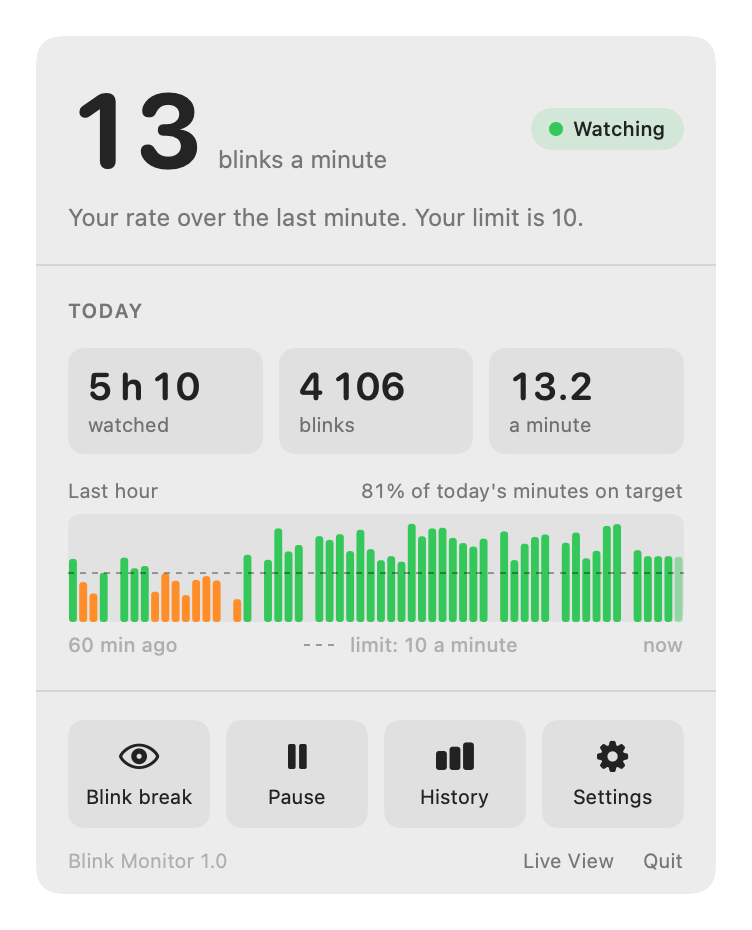
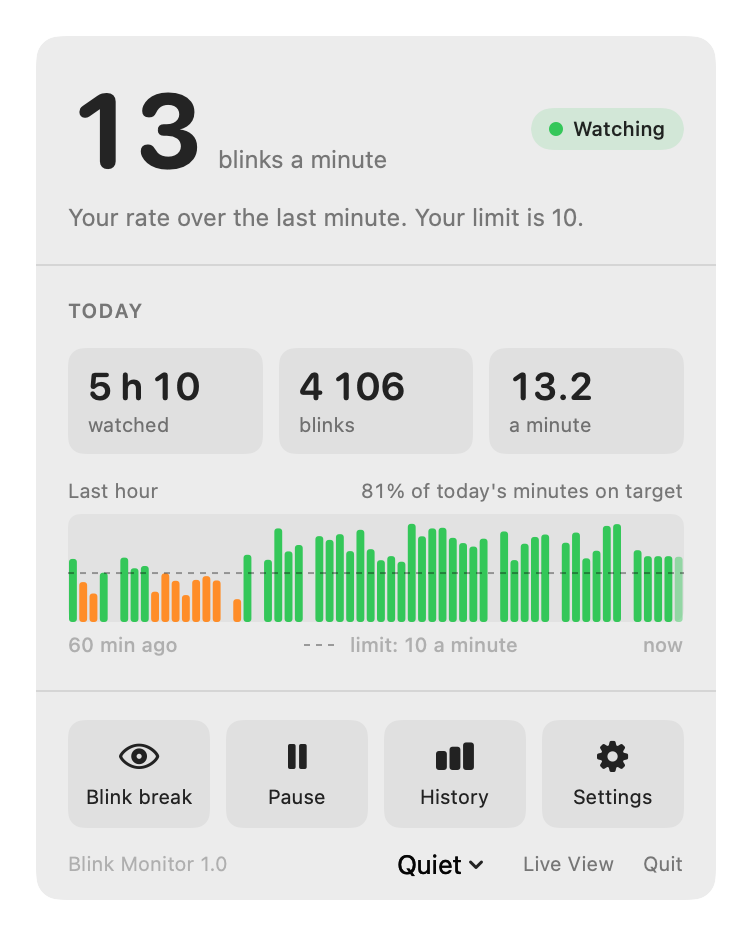
No window taller than the screen, and the notifications-off notice where reminders are set
One rule, ScrollsWhenTall: the part of a window that can grow stops at the
room the screen has and scrolls. Settings keeps its tab bar in place, the
panel keeps its buttons, History scrolls whole. On a screen with room,
nothing changes. Settings > Routines was about 890 points tall and a
13-inch MacBook Air shows about 840.
Notifications refused: the notice is now at the top of the Blink Rate,
Breaks and Routines tabs, with an Open Notification Settings button, and in
the panel. It is read again each time Settings opens and each time the app
comes forward. Settings says that a banner's buttons show under the pointer.

diff --git a/Sources/BlinkMonitor/MenuBar/SettingsView.swift b/Sources/BlinkMonitor/MenuBar/SettingsView.swift
@@ -1,6 +1,7 @@
 import SwiftUI
 import AppKit
 import BlinkCore
+import BlinkUI
 
 /// What the Settings window's buttons do outside of it.
 struct SettingsActions {
@@ -10,6 +11,8 @@ struct SettingsActions {
     var openSetup: (SetupModel.Purpose) -> Void = { _ in }
     /// Closes the setup window: what it shows is about to be deleted.
     var closeSetup: () -> Void = {}
+    /// System Settings, on the page of this app's notifications.
+    var openNotificationSettings: () -> Void = {}
 }
 
 /// Where the files that setup makes are kept.
@@ -111,20 +114,57 @@ struct SettingsView: View {
             }
             .pickerStyle(.segmented)
             .labelsHidden()
+            .padding(.horizontal, 20)
 
-            switch state.tab {
-            case .general: general
-            case .reminders: remindersTab
-            case .breaks: BreaksTab(model: model, preferences: preferences, reminders: reminders, moment: moment,
-                                    startBlinkBreak: actions.startBlinkBreak)
-            case .routines: RoutineSettings(routines: model.routines, moment: moment)
-            case .model: modelTab
-            case .data: data
-            case .sources: sources
+            // The tab bar stays put; a tab taller than the screen scrolls under it.
+            // 110: the title bar, the tab bar and the paddings around them.
+            ScrollsWhenTall(reserved: 110) {
+                VStack(alignment: .leading, spacing: 12) {
+                    if remindsOnThisTab, reminders.notificationsRefused { notificationsOff }
+                    switch state.tab {
+                    case .general: general
+                    case .reminders: remindersTab
+                    case .breaks: BreaksTab(model: model, preferences: preferences, reminders: reminders, moment: moment,
+                                            startBlinkBreak: actions.startBlinkBreak)
+                    case .routines: RoutineSettings(routines: model.routines, moment: moment)
+                    case .model: modelTab
+                    case .data: data
+                    case .sources: sources
+                    }
+                }
+                .padding(.horizontal, 20)
+                .padding(.bottom, 20)
             }
         }
-        .padding(20)
+        .padding(.top, 20)
         .frame(width: 520, alignment: .top)
+    }
+
+    /// The three tabs whose reminders arrive as notifications.
+    private var remindsOnThisTab: Bool {
+        state.tab == .reminders || state.tab == .breaks || state.tab == .routines
+    }
+
+    /// Said at the top of each of those tabs, with the way out. It was said on one tab
+    /// only, at the bottom, and only when a switch of that tab was on.
+    private var notificationsOff: some View {
+        HStack(alignment: .top, spacing: 10) {
+            Image(systemName: "bell.slash")
+                .foregroundStyle(.orange)
+                .frame(width: 20)
+            VStack(alignment: .leading, spacing: 6) {
+                Text("Notifications are off for Blink Monitor")
+                    .fontWeight(.semibold)
+                Text("Reminders cannot show their banner or their buttons. The blink reminder and the breaks play a sound instead; routines only show in the menu bar and the panel. Allow them in System Settings > Notifications > Blink Monitor. There, the style Alerts keeps a banner on screen until you answer it.")
+                    .font(.callout)
+                    .foregroundStyle(.secondary)
+                    .fixedSize(horizontal: false, vertical: true)
+                Button("Open Notification Settings") { actions.openNotificationSettings() }
+            }
+        }
+        .padding(12)
+        .frame(maxWidth: .infinity, alignment: .leading)
+        .background(Color.orange.opacity(0.1), in: RoundedRectangle(cornerRadius: 10))
     }
 
     // MARK: General
@@ -198,12 +238,10 @@ struct SettingsView: View {
                 }
             }
             studiesCard
-            if reminders.notificationsRefused && (preferences.remindersOn || preferences.breakNudgesOn) {
-                Label("Notifications are off for Blink Monitor in System Settings. A sound plays instead.",
-                      systemImage: "bell.slash")
-                    .font(.callout)
-                    .foregroundStyle(.secondary)
-            }
+            Text("A reminder is a banner at the top right of the screen. It leaves after a few seconds and then waits in Notification Centre. Its buttons show when the pointer is over it.")
+                .font(.callout)
+                .foregroundStyle(.secondary)
+                .fixedSize(horizontal: false, vertical: true)
         }
     }
 

diff --git a/Sources/BlinkUI/ScrollsWhenTall.swift b/Sources/BlinkUI/ScrollsWhenTall.swift
@@ -1,0 +1,69 @@
+import SwiftUI
+import AppKit
+
+/// ONE RULE FOR EVERY WINDOW: none is taller than the screen can show.
+///
+/// The windows have a fixed size, the size of their content. Settings > Routines was
+/// about 890 points tall, History 770, the panel with every routine open 840; a 13-inch
+/// MacBook Air shows about 840 with the Dock, an older one 776. What did not fit was cut
+/// off below the screen, buttons included, and nothing scrolled.
+///
+/// So the part of a window that can grow is wrapped in this. While it fits, nothing
+/// changes: the window is as tall as its content. When it would not fit, that part stops
+/// at the room the screen has and scrolls; what is outside it (a tab bar, a row of
+/// buttons) stays where it is.
+public struct ScrollsWhenTall<Content: View>: View {
+    @Environment(\.screenRoom) private var room
+    private let reserved: CGFloat
+    private let content: Content
+
+    /// `reserved`: the height of what stays put around this part: the title bar, a tab
+    /// bar, a row of buttons, the paddings.
+    public init(reserved: CGFloat, @ViewBuilder content: () -> Content) {
+        self.reserved = reserved
+        self.content = content()
+    }
+
+    public var body: some View {
+        CappedHeight(limit: max(240, (room ?? ScreenRoom.height) - reserved)) {
+            ScrollView(.vertical) { content }
+        }
+    }
+}
+
+public enum ScreenRoom {
+    /// The height a window may take on the screen in use: what is left by the menu bar
+    /// and the Dock, less a small margin.
+    public static var height: CGFloat {
+        (NSScreen.main?.visibleFrame.height ?? 800) - 16
+    }
+}
+
+/// As tall as its content wants to be, up to a limit.
+private struct CappedHeight: Layout {
+    let limit: CGFloat
+
+    func sizeThatFits(proposal: ProposedViewSize, subviews: Subviews, cache: inout ()) -> CGSize {
+        guard let view = subviews.first else { return .zero }
+        // A scroll view asked for its ideal height answers with the height of what it holds.
+        let ideal = view.sizeThatFits(ProposedViewSize(width: proposal.width, height: nil))
+        return CGSize(width: ideal.width, height: min(ideal.height, limit))
+    }
+
+    func placeSubviews(in bounds: CGRect, proposal: ProposedViewSize, subviews: Subviews, cache: inout ()) {
+        subviews.first?.place(at: bounds.origin, proposal: ProposedViewSize(bounds.size))
+    }
+}
+
+private struct ScreenRoomKey: EnvironmentKey {
+    static let defaultValue: CGFloat? = nil
+}
+
+public extension EnvironmentValues {
+    /// The room a window may take, when it is not this Mac's screen that decides: the
+    /// screenshots state it (whole by default, or a small screen to look at the scrolling).
+    var screenRoom: CGFloat? {
+        get { self[ScreenRoomKey.self] }
+        set { self[ScreenRoomKey.self] = newValue }
+    }
+}

diff --git a/Sources/BlinkMonitor/MenuBar/MenuPanelView.swift b/Sources/BlinkMonitor/MenuBar/MenuPanelView.swift
@@ -54,6 +54,11 @@ struct MenuPanelView: View {
     private func panel(now: Date) -> some View {
         let status = model.status(now: now)
         return VStack(alignment: .leading, spacing: 0) {
+          // Everything above the buttons scrolls when the screen is too small for it (many
+          // routines, a low screen). The buttons stay put. 250: the buttons, the pause
+          // choices when they are open, and the panel's own arrow.
+          ScrollsWhenTall(reserved: 250) {
+           VStack(alignment: .leading, spacing: 0) {
             if onDiskImage { DiskImageBanner() }
             if model.isDemo { DemoBanner(actions: actions) }
             VStack(alignment: .leading, spacing: 10) {
@@ -67,6 +72,8 @@ struct MenuPanelView: View {
             RoutineBlock(routines: model.routines, now: now)
             TodaySection(history: history, state: state, limit: preferences.limit, now: now)
                 .padding(16)
+           }
+          }
             Divider()
             ActionsSection(model: model, state: state, status: status, actions: actions)
                 .padding(.horizontal, 16)
@@ -294,6 +301,9 @@ private struct Notes: View {
         if preferences.breakNudgesOn, let tally = BreakWords.tally(reminders.breaks.tally(now: now)) {
             lines.append(("checkmark.circle", tally, .secondary))
         }
+        if reminders.notificationsRefused, preferences.remindersOn || preferences.breakNudgesOn {
+            lines.append(("bell.slash", "Notifications are off for Blink Monitor: a reminder is a sound only. Settings says how to allow them.", .orange))
+        }
         guard preferences.automaticLimit else { return lines }
         if let reference = preferences.reference {
             // A decline is SHOWN against the reference; the reference does not follow it.
@@ -506,12 +516,16 @@ private struct ActionsSection: View {
                 Spacer()
                 // "Leave me alone for an hour": every banner and sound is held, counting
                 // goes on. Pause is something else: it turns the camera off.
-                Menu("Quiet") {
+                Menu {
                     Button("For 30 Minutes") { model.reminders.setQuiet(.thirtyMinutes) }
                     Button("For 1 Hour") { model.reminders.setQuiet(.oneHour) }
                     Button("Until Tomorrow") { model.reminders.setQuiet(.untilTomorrow) }
+                } label: {
+                    Text("Quiet").font(.caption).foregroundStyle(.secondary)
                 }
                 .menuStyle(.borderlessButton)
+                .menuIndicator(.hidden)
+                .controlSize(.small)
                 .fixedSize()
                 .help("No reminder, no look-away break and no sound for a while. Blinks are still counted.")
                 Button("Live View") { actions.openLiveView() }

diff --git a/Sources/BlinkMonitor/App/SampleData.swift b/Sources/BlinkMonitor/App/SampleData.swift
@@ -37,6 +37,8 @@ enum SampleData {
         case ownRate
         /// "Quiet" was chosen in the panel, for an hour.
         case quiet
+        /// macOS does not allow the app's notifications.
+        case notificationsOff
         /// The demo: `watching`, on made-up eyes.
         case demo
         /// A new Mac: no model of your eyes yet, the setup window closed.
@@ -130,7 +132,7 @@ enum SampleData {
             initial.live = live.withCameraOff
         case .ownRate:
             preferences.reference = Reference(rate: 7.2, measuredOn: now.addingTimeInterval(-3600), minutes: 214)
-        case .quiet:
+        case .quiet, .notificationsOff:
             preferences.reference = Reference(rate: usual, measuredOn: aWhileAgo, minutes: 214)
         case .noFace:
             preferences.reference = Reference(rate: usual, measuredOn: aWhileAgo, minutes: 214)
@@ -183,6 +185,7 @@ enum SampleData {
             tally.record(BreakOutcome(kind: .short, ending: ending), dayStart: tally.day)
         }
         if case .quiet = scene { model.reminders.setQuiet(.oneHour, now: now) }
+        if case .notificationsOff = scene { model.reminders.state(notifications: .refused) }
         if case .lookingAway = scene {
             model.reminders.breaks.show(current: .init(kind: .short, seconds: 40), tally: tally)
         }

diff --git a/Sources/BlinkMonitor/App/Snapshots.swift b/Sources/BlinkMonitor/App/Snapshots.swift
@@ -170,6 +170,14 @@ enum Snapshots {
             ("settings-breaks-long", settings(.breaks, scene: .lookingAway)),
             ("settings-breaks-off", settings(.breaks)),
             ("settings-data", settings(.data)),
+            // A 13-inch screen with a large Dock: the tab scrolls under the tab bar.
+            ("settings-routines-small-screen", AnyView(settings(.routines) { _, model in
+                SampleData.own(in: model, now: now, scene: .many)
+            }.environment(\.screenRoom, 700))),
+            ("settings-reminders-small-screen", AnyView(settings(.reminders).environment(\.screenRoom, 700))),
+            ("history-small-screen", AnyView(history(.watching).environment(\.screenRoom, 700))),
+            ("panel-small-screen", AnyView(routinePanel(.waiting).environment(\.screenRoom, 700))),
+            ("settings-breaks-notifications-off", settings(.breaks, scene: .notificationsOff)),
             ("settings-data-captures", settings(.data) { state, _ in
                 var disk = recorded
                 (disk.captures, disk.captureMegabytes) = (3, 41)

diff --git a/Sources/BlinkMonitor/App/Entry.swift b/Sources/BlinkMonitor/App/Entry.swift
@@ -292,10 +292,12 @@ final class AppDelegate: NSObject, NSApplicationDelegate {
                          actions: SettingsActions(startBlinkBreak: { blinkBreak.show() },
                                                   openLiveView: { liveView.show() },
                                                   openSetup: { self?.showSetup($0) },
-                                                  closeSetup: { setup.close() }))
+                                                  closeSetup: { setup.close() },
+                                                  openNotificationSettings: Self.openNotificationSettings))
         }
         settings.onVisibilityChange = { open in
-            if open { settingsState.refresh(recordings) } else { settingsState.reset() }
+            // What macOS allows can have changed in System Settings since it was asked.
+            if open { settingsState.refresh(recordings); model.reminders.rereadNotifications() } else { settingsState.reset() }
         }
 
         // In a demo entered from the setup window, the way back is offered. The app that

diff --git a/Sources/BlinkMonitor/MenuBar/RoutineViews.swift b/Sources/BlinkMonitor/MenuBar/RoutineViews.swift
@@ -456,13 +456,6 @@ struct RoutineSettings: View {
                     Button("Show in Finder") { showRecord() }
                 }
             }
-            if routines.bannersRefused && routines.routines.contains(where: \.isOn) {
-                Label("Notifications are off for Blink Monitor in System Settings. The menu bar and the panel still show what is waiting.",
-                      systemImage: "bell.slash")
-                    .font(.callout)
-                    .foregroundStyle(.secondary)
-                    .fixedSize(horizontal: false, vertical: true)
-            }
             Text("Blink Monitor reminds you of a routine that you, or your eye-care professional, chose. It does not say what to use or how often. "
                  + "A reminder is silent and waits until you are at the screen. It comes once more after \(routines.policy.repeatAfterMinutes) minutes, "
                  + "then a dot in the menu bar waits with it until its next time. "

diff --git a/Sources/BlinkMonitor/MenuBar/HistoryView.swift b/Sources/BlinkMonitor/MenuBar/HistoryView.swift
@@ -1,6 +1,7 @@
 import SwiftUI
 import AppKit
 import BlinkCore
+import BlinkUI
 
 /// What the History window remembers while it is open.
 @MainActor
@@ -35,7 +36,8 @@ struct HistoryView: View {
         let weekRecords = days.flatMap { history.records(on: $0.day) }
         let week = DaySummary(records: weekRecords, threshold: limit)
 
-        return VStack(alignment: .leading, spacing: 18) {
+        // 44: the title bar. On a screen too low for the whole window, it scrolls.
+        return ScrollsWhenTall(reserved: 44) { VStack(alignment: .leading, spacing: 18) {
             if weekRecords.isEmpty {
                 NothingYet()
             } else {
@@ -97,6 +99,7 @@ struct HistoryView: View {
             }
         }
         .padding(20)
+        }
         .frame(width: 620)
     }
 

diff --git a/Sources/BlinkMonitor/App/ReminderController.swift b/Sources/BlinkMonitor/App/ReminderController.swift
@@ -99,6 +99,11 @@ final class ReminderController: ObservableObject {
         }
     }
 
+    /// Puts the answer in a state, for the screenshots.
+    func state(notifications: Notifications) {
+        self.notifications = notifications
+    }
+
     /// Reads what macOS says now, without asking anything. The answer can change behind
     /// the app's back, in System Settings: whoever shows it reads it again when it opens.
     func rereadNotifications() {
